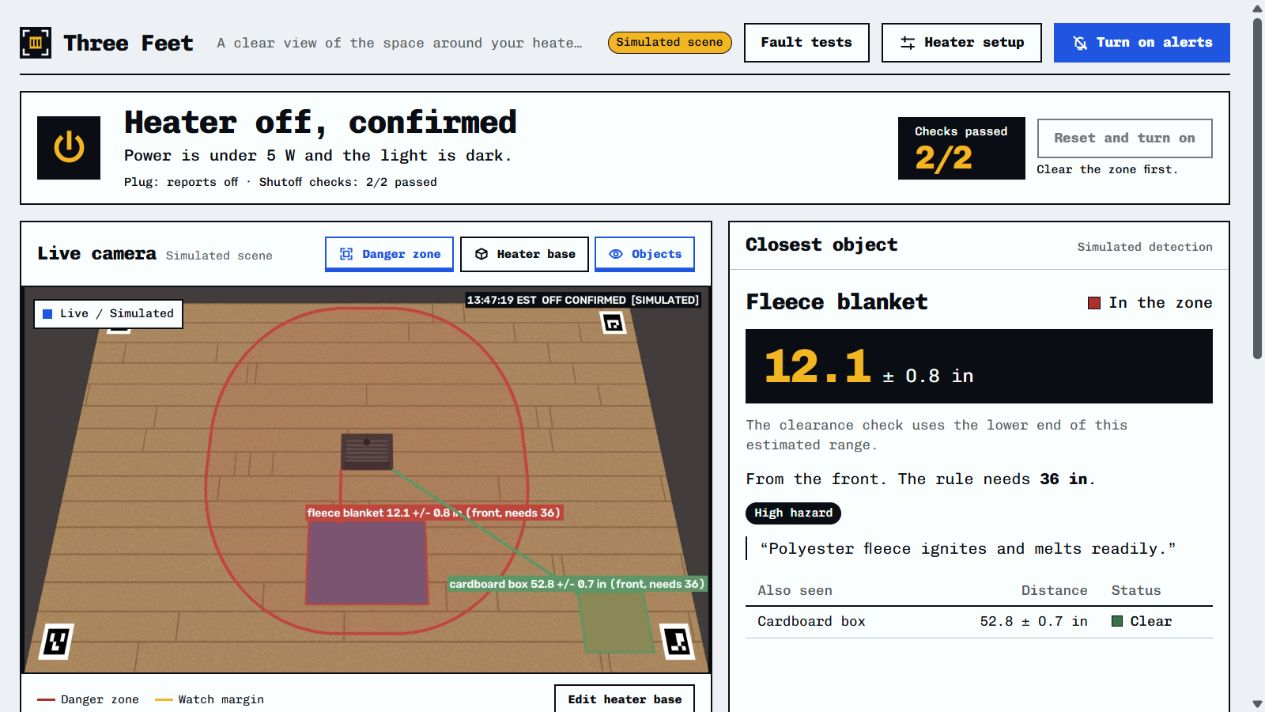
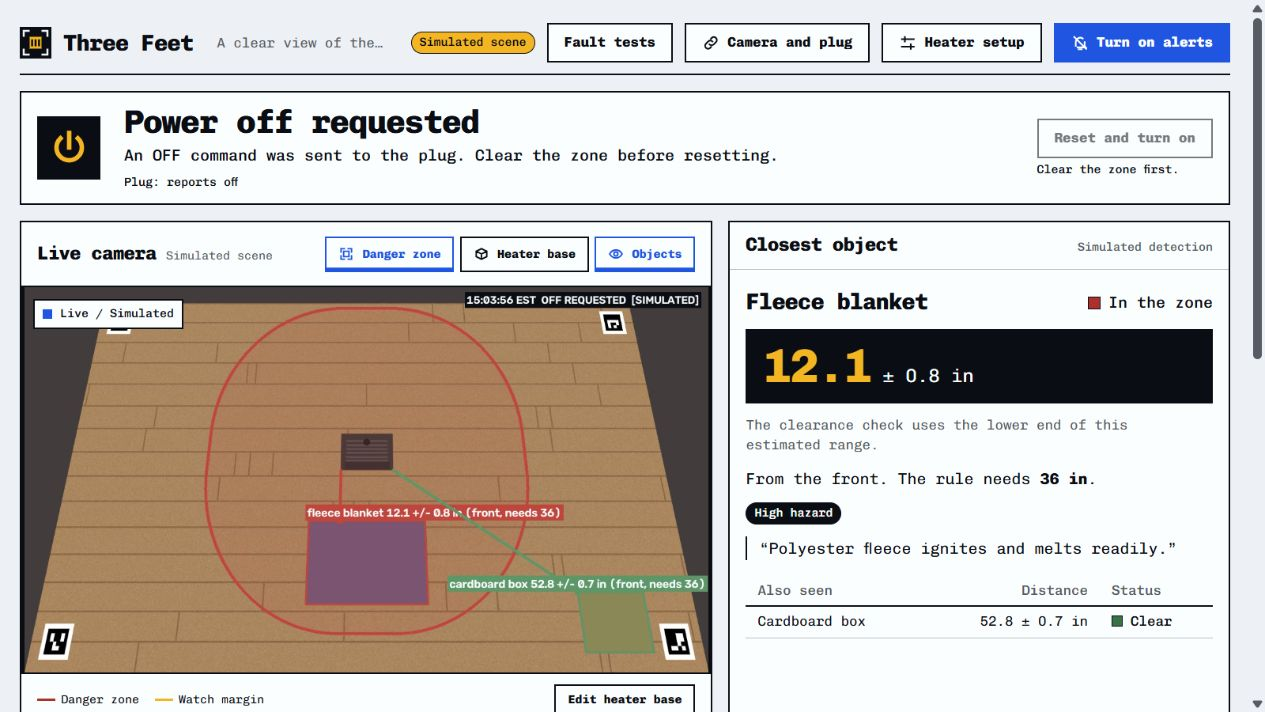
Update docs, evaluation tools, and app wiring

diff --git a/three_feet/evaluation.py b/three_feet/evaluation.py
@@ -12,7 +12,7 @@ from datetime import datetime, timezone
 from pathlib import Path
 
 DISTANCE_FIELDS = ["recorded_at", "setup", "object", "measured_in", "estimated_in", "error_in", "required_in", "notes"]
-SHUTOFF_FIELDS = ["recorded_at", "setup", "command_succeeded", "plug_off", "indicator_off", "latency_s", "notes"]
+SHUTOFF_FIELDS = ["recorded_at", "setup", "command_succeeded", "latency_s", "notes"]
 
 
 def nonnegative(value: str) -> float:
@@ -60,22 +60,20 @@ def report(distances: list[dict], shutoffs: list[dict]) -> str:
                     ("measured_in", "estimated_in", "error_in", "required_in"))
                 errors.append(abs(estimate - actual))
                 coverage += abs(estimate - actual) <= error
-                actual_inside, predicted_inside = actual < required, estimate - error < required
+                actual_inside, predicted_inside = actual < required, estimate < required
                 missed += actual_inside and not predicted_inside
                 false_alarms += predicted_inside and not actual_inside
             lines += [f"Distance trials: **{len(ds)}**. Mean absolute error: **{sum(errors) / len(errors):.2f} in**. "
                       f"Maximum absolute error: **{max(errors):.2f} in**.", "",
                       f"Actual distance within estimated ± range: **{coverage}/{len(ds)}**. "
-                      f"Missed boundary violations: **{missed}**. Conservative false alarms: **{false_alarms}**.", ""]
+                      f"Missed boundary violations: **{missed}**. False alarms: **{false_alarms}**.", ""]
         if ss:
-            confirmed = sum(r["plug_off"] == "yes" and r["indicator_off"] == "yes" for r in ss)
             succeeded = sum(r["command_succeeded"] == "yes" for r in ss)
             latency = [nonnegative(r["latency_s"]) for r in ss if r["latency_s"]]
             lines += [f"Shutdown attempts: **{len(ss)}**. Command acknowledgements: **{succeeded}**. "
-                      f"Failed commands: **{len(ss) - succeeded}**. Independently confirmed "
-                      f"(plug off + light dark): **{confirmed}**. Unconfirmed: **{len(ss) - confirmed}**.", ""]
+                      f"Failed commands: **{len(ss) - succeeded}**.", ""]
             if latency:
-                lines += [f"Recorded confirmation latency ({len(latency)} trials): mean "
+                lines += [f"Recorded command latency ({len(latency)} trials): mean "
                           f"**{sum(latency) / len(latency):.2f} s**, max **{max(latency):.2f} s**.", ""]
     if not distances and not shutoffs:
         lines += ["No trials recorded. Accuracy and shutdown reliability have not been measured.", ""]
@@ -100,8 +98,6 @@ def main() -> None:
                 sub.add_argument(f"--{flag}", type=nonnegative, required=True)
         else:
             sub.add_argument("--command-succeeded", choices=("yes", "no"), required=True)
-            for flag in ("plug-off", "indicator-off"):
-                sub.add_argument(f"--{flag}", choices=("yes", "no", "unknown"), required=True)
             sub.add_argument("--latency-s", type=nonnegative)
     summary = commands.add_parser("report", help="Summarize recorded trials by setup")
     summary.add_argument("--distances", type=Path)
@@ -121,9 +117,8 @@ def main() -> None:
             path = row.pop("csv")
             row.pop("command")
             if args.command == "shutoff":
-                confirmed = args.plug_off == "yes" and args.indicator_off == "yes"
-                if args.latency_s is not None and not confirmed:
-                    parser.error("Confirmation latency requires both plug off and indicator off")
+                if args.latency_s is not None and args.command_succeeded != "yes":
+                    parser.error("Command latency requires a successful command acknowledgement")
             append_trial(path, DISTANCE_FIELDS if args.command == "distance" else SHUTOFF_FIELDS, row)
             print(f"Recorded trial in {path}")
     except (ValueError, OSError, argparse.ArgumentTypeError) as exc:

diff --git a/three_feet/app.py b/three_feet/app.py
@@ -132,7 +132,7 @@ def build_engine(source_spec: str, plug_kind: str, demo: bool,
         world = SimWorld(plug)
         calib = world.calibration()
         engine = Engine(SimSource(world), SimPerception(world), plug, s, calib=calib, rule=rule,
-                        probe=world.indicator_probe(calib), wonder=wonder, meter=meter, mode="sim",
+                        wonder=wonder, meter=meter, mode="sim",
                         demo=demo, source_label="simulated scene")
         engine.sim_world = world  # type: ignore[attr-defined]
         autoplay = Autoplay(world, lambda: engine.sm.state.value, engine.reset,
@@ -142,7 +142,6 @@ def build_engine(source_spec: str, plug_kind: str, demo: bool,
     from .perception.pipeline import MetaPerception
     from .perception.sam import SamClient
     from .perception.spark import SparkClient
-    from .safety.verifier import IndicatorProbe
 
     path = Path(source_spec)
     saved_camera, saved_plug = startup_connections(source_spec, plug_kind, plug_explicit)
@@ -168,14 +167,14 @@ def build_engine(source_spec: str, plug_kind: str, demo: bool,
     if switch is None:
         switch = make_switch(plug_kind, s.plug_name)
     calib = CalibrationFile.load() if CALIBRATION_PATH.exists() else None
-    probe = (IndicatorProbe(calib.indicator_roi, calib.indicator_threshold)
-             if calib and calib.indicator_roi and calib.indicator_threshold is not None else None)
     perception = (MetaPerception(SamClient(client, meter), SparkClient(client, meter), meter,
-                                idle_refresh_s=min(s.perception_idle_refresh_s, s.perception_max_age_s / 2),
-                                max_result_age_s=s.perception_max_age_s)
+                                idle_refresh_s=s.perception_idle_refresh_s,
+                                max_result_age_s=s.perception_max_age_s,
+                                verification_max_age_s=s.perception_verification_max_age_s,
+                                inventory_period_s=s.perception_inventory_refresh_s)
                   if client else NullPerception())
     engine = Engine(source, perception, switch, s, calib=calib, rule=rule,
-                    probe=probe, wonder=wonder, meter=meter, mode="replay" if path.is_dir() else "live",
+                    wonder=wonder, meter=meter, mode="replay" if path.is_dir() else "live",
                     demo=demo, source_label=source_label)
     for note in notes:
         engine.log("setup", note)

diff --git a/tests/test_evaluation.py b/tests/test_evaluation.py
@@ -3,20 +3,20 @@ import csv
 from three_feet.evaluation import DISTANCE_FIELDS, SHUTOFF_FIELDS, append_trial, read_trials, report
 
 
-def test_trial_roundtrip_reports_errors_boundary_misses_and_unconfirmed_shutoffs(tmp_path):
+def test_trial_roundtrip_reports_errors_boundary_misses_and_command_failures(tmp_path):
     distances, shutoffs = tmp_path / "distances.csv", tmp_path / "shutoffs.csv"
     # Synthetic fixtures exercise the report; they are not physical validation results.
-    for measured, estimated, error in [(35, 38, 1), (40, 38, 3)]:
+    for measured, estimated, error in [(35, 38, 1), (40, 35, 3)]:
         append_trial(distances, DISTANCE_FIELDS, dict(setup="synthetic", object="test cloth",
             measured_in=measured, estimated_in=estimated, error_in=error, required_in=36, notes="fixture"))
-    for plug, indicator in [("yes", "yes"), ("yes", "unknown")]:
-        append_trial(shutoffs, SHUTOFF_FIELDS, dict(setup="synthetic", command_succeeded="yes",
-            plug_off=plug, indicator_off=indicator, latency_s=2 if indicator == "yes" else "", notes="fixture"))
+    for succeeded in ("yes", "no"):
+        append_trial(shutoffs, SHUTOFF_FIELDS, dict(setup="synthetic", command_succeeded=succeeded,
+            latency_s=2 if succeeded == "yes" else "", notes="fixture"))
     result = report(read_trials(distances, DISTANCE_FIELDS), read_trials(shutoffs, SHUTOFF_FIELDS))
-    assert "Mean absolute error: **2.50 in**" in result
+    assert "Mean absolute error: **4.00 in**" in result
     assert "Missed boundary violations: **1**" in result
-    assert "Conservative false alarms: **1**" in result
-    assert "(plug off + light dark): **1**. Unconfirmed: **1**" in result
+    assert "False alarms: **1**" in result
+    assert "Command acknowledgements: **1**. Failed commands: **1**" in result
     with distances.open(newline="", encoding="utf-8") as stream:
         assert len(list(csv.DictReader(stream))) == 2
 

diff --git a/tests/test_app.py b/tests/test_app.py
@@ -41,7 +41,7 @@ def wait_for(client, predicate, timeout=5.0):
 
 def test_state_shape_and_config(client):
     s = client.get("/api/state").json()
-    for key in ("state", "banner", "objects", "rule", "power", "signals", "camera", "calibration", "api",
+    for key in ("state", "banner", "objects", "rule", "power", "off_pending", "off_error", "camera", "calibration", "api",
                 "reset_pending", "reset_cancelled"):
         assert key in s
     cfg = client.get("/api/config").json()
@@ -123,8 +123,8 @@ def latch_simulated_plug_off(client):
     engine.switch.settle_s = 0
     engine.switch.turn_off()
     engine.plug.refresh()
-    engine.sm.state = State.OFF_CONFIRMED
-    wait_for(client, lambda s: s["state"] == "OFF_CONFIRMED" and s["can_reset"])
+    engine.sm.state = State.OFF_REQUESTED
+    wait_for(client, lambda s: s["state"] == "OFF_REQUESTED" and s["can_reset"])
     return engine
 
 
@@ -150,9 +150,9 @@ def test_reset_on_failure_returns_error_and_keeps_heater_latched_off(client, mon
     response = client.post("/api/reset")
     assert response.status_code == 502
     assert "detail" in response.json()
-    assert engine.sm.state in (State.VERIFYING, State.OFF_CONFIRMED)
+    assert engine.sm.state is State.OFF_REQUESTED
     assert engine.switch.status().on is False
-    wait_for(client, lambda s: s["state"] == "OFF_CONFIRMED")
+    wait_for(client, lambda s: s["state"] == "OFF_REQUESTED")
 
 
 def test_reset_refuses_missing_calibration_after_shutoff(client):

diff --git a/scripts/record_demo.py b/scripts/record_demo.py
@@ -2,7 +2,7 @@
 
     python scripts/record_demo.py                 # writes web/demo-data/
 
-Runs the real engine (geometry, state machine, plug, verification, incident report) against the simulated scene on a
+Runs the real engine (geometry, state machine, plug, incident report) against the simulated scene on a
 fake clock, so the recording is fast and repeatable. The dashboard replays it in `npm run build:demo`: state messages,
 events, incidents, and the annotated camera frames. Nothing here touches a camera, a plug, or the network.
 """
@@ -67,7 +67,7 @@ class Recorder:
         calib = self.world.calibration()
         self.engine = Engine(
             SimSource(self.world), SimPerception(self.world), plug, Settings(_env_file=None), calib=calib,
-            rule=ClearanceRule(36, 36, 36, 36, "default"), probe=self.world.indicator_probe(calib), mode="sim",
+            rule=ClearanceRule(36, 36, 36, 36, "default"), mode="sim",
             clock=self.clock, events_dir=None)
         self.engine._workers.shutdown()
         self.engine._workers = SyncExecutor()

diff --git a/tests/test_connections.py b/tests/test_connections.py
@@ -225,14 +225,14 @@ def test_new_cync_sign_in_forces_a_fresh_connection(rig):
     assert len(plugs) == 2 and engine.switch is not first and first.closed
 
 
-@pytest.mark.parametrize("state", [State.VERIFYING, State.OFF_UNCONFIRMED])
-def test_plug_cannot_change_while_a_shutoff_is_being_verified(rig, state):
+def test_plug_cannot_change_while_an_off_command_is_pending(rig):
     engine, service, _, _, _, plug = rig
-    engine.sm.state = state
+    engine._off_pending = 1
     with pytest.raises(ConnectionChangeBlocked):
-        service.apply_plug("dryrun")
+        service.apply_plug('dryrun')
     assert engine.switch is plug
     assert service.store.load()[1] is None
+
 
 
 def test_simulated_scene_cannot_be_edited(rig):

diff --git a/README.md b/README.md
@@ -1,12 +1,12 @@
 # Three Feet
 
-An experimental space-heater safety helper for the **Meta Global AI Developer Hackathon**. Three Feet aims to detect objects in a heater's clearance zone, explain the concern, attempt to turn the heater off, and report whether shutdown was independently confirmed.
+An experimental space-heater safety helper for the **Meta Global AI Developer Hackathon**. Three Feet aims to detect objects in a heater's clearance zone, explain the concern, send an OFF request to the plug, and show the command outcome and reported plug state.
 
-![Simulator dashboard showing distance uncertainty and two-check shutdown confirmation](docs/dashboard-simulator.jpg)
+![Simulator dashboard showing distance uncertainty and an OFF request](docs/dashboard-simulator.jpg)
 
 *Synthetic simulator scene; this screenshot is not a physical validation trial.*
 
-**Implemented system:** One fixed Android phone camera, a reviewed floor-plane calibration, Meta SAM 3.1 and Muse Spark perception, a deterministic safety loop, and a GE Cync smart plug. Cync reports relay state; it has **no power meter**. Independent shutoff confirmation requires both the plug reporting off and a calibrated camera observation of the heater's power light going dark.
+**Implemented system:** One fixed Android phone camera, a reviewed floor-plane calibration, Meta SAM 3.1 and Muse Spark perception, a deterministic safety loop, and a GE Cync smart plug. Cync reports relay state; it has **no power meter**. The dashboard displays its reported state separately from OFF command outcomes.
 
 ```mermaid
 flowchart LR
@@ -15,13 +15,12 @@ flowchart LR
   Models --> Geometry
   Geometry --> Safety[Deterministic safety loop]
   Safety --> Plug[Cync plug OFF request]
-  Plug --> Verification[Plug report plus camera power-light check]
-  Verification --> Dashboard[Live dashboard and incident evidence]
+  Plug --> Dashboard[Live dashboard and command outcome]
   Manual[Manual PDF] --> Wonder[Muse Wonder plus human review]
   Wonder --> Safety
 ```
 
-The dashboard shows estimated distances with uncertainty, clearance provenance, shutdown countdowns, separate plug and camera evidence, and incident reports. The simulator exercises the same geometry, safety loop, verification, and UI with synthetic observations. Run it without hardware using the dashboard quickstart below.
+The dashboard shows estimated distances with uncertainty, clearance provenance, shutdown countdowns, plug status, and incident reports. The simulator exercises the same geometry, safety loop, plug requests, and UI with synthetic observations. Run it without hardware using the dashboard quickstart below.
 
 **Validation:** No physical accuracy or reliability results are claimed here. Record trials and generate a report using [VALIDATION.md](./VALIDATION.md). A demo video and physical measurements must be supplied before presenting the project as empirically validated.
 
@@ -34,11 +33,14 @@ The dashboard shows estimated distances with uncertainty, clearance provenance, 
 
 It has unit and end-to-end tests but has **not yet been validated** against real measurements or real shutoffs. This is a research prototype, not a fire-safety device; do not rely on it to prevent fires or replace manufacturer instructions, smoke alarms, or safe heater practices.
 
-### Monitoring and verification behavior
+### Monitoring and power commands
 
-- Confirmation always needs **two checks**, including when the light probe is missing. Without it, shutdown stays unconfirmed, OFF requests are retried, and a person is alerted to check the heater. Configure the probe with `scripts/calibrate_light.py`.
-- Measurement uncertainty is an engineering estimate, not a statistical confidence interval. Decisions use the conservative lower end of the distance range.
-- Model health requires successful segmentation of a recent frame. By default, results expire after 5 seconds and idle scenes refresh every 2 seconds. Slow calls do not refresh the timestamp of their input frames. Budget exhaustion pauses model calls and marks monitoring degraded; local catch-all detection still runs. Reset is refused while model health is degraded.
+- After the countdown, the app sends OFF and shows **Power off requested**. Requests stay latched until a guarded manual reset. Only failed command calls are retried (`OFF_COMMAND_RETRIES`, default 2); the plug state is displayed separately.
+
+- Measurement uncertainty is an engineering estimate, not a statistical confidence interval. The red zone uses the nominal object measurement. Only overlap with the red zone starts the shutoff countdown. A fixed 2-inch outside watch band is amber; uncertainty never expands that band.
+- SAM initializes object masks, then local optical flow tracks their positions between API checks. New scene content, lost tracking, or a camera gap triggers an early SAM check; otherwise SAM checks every 30 seconds (`PERCEPTION_IDLE_REFRESH_S`). Spark inventories the scene at most once per 60 seconds (`PERCEPTION_INVENTORY_REFRESH_S`); per-object hazard judgments are retained with track identities.
+- Camera/local tracking results expire after 5 seconds (`PERCEPTION_MAX_AGE_S`). SAM verification has a separate 45-second deadline (`PERCEPTION_VERIFICATION_MAX_AGE_S`). Unknown scene changes and failed checks mark monitoring degraded until a successful SAM check; local frames cannot renew the SAM deadline. Slow calls retain their input frame's timestamp. Budget exhaustion pauses model calls and marks monitoring degraded; local catch-all detection still runs. Reset is refused while model health is degraded.
+- At six concepts per check and $0.0025 per SAM image, an unchanged scene uses about $1.80/hour for SAM before token-priced calls, versus about $27/hour at the former two-second interval. Movement that local tracking cannot explain increases API use. These are scheduling estimates, not measured physical tracking accuracy or a billing guarantee.
 - `DEFAULT_CLEARANCE_IN` is the active fallback and suggestion floor, not a guarantee of the manufacturer's requirement. Approved user distances remain explicitly labeled as custom, including warnings below the active default. Finding a manual requires human review before its values take effect.
 - Dashboard and report times use `DISPLAY_TIMEZONE` (default `America/New_York`) with timezone labels or UTC offsets.
 - Backend tests isolate settings and saved rules from your local `.env`. Run `python -m pytest`; frontend validation is `npm run build` in `web/`.
@@ -65,7 +67,6 @@ Copy-Item .env.example .env      # then add MODEL_API_KEY and the phone camera U
 | Quick setup: no printing, just measure the heater's base (width, depth in inches) and click its 4 corners | `.\.venv\Scripts\python.exe scripts\calibrate.py --source phone --heater 14 9` |
 | Or print ArUco markers for tighter error bars (writes `data\markers\aruco_markers.pdf`; print at Actual size) | `.\.venv\Scripts\python.exe tools\print_markers.py` |
 | Calibrate with the markers and mark the heater | `.\.venv\Scripts\python.exe scripts\calibrate.py --image data\photos\setup.jpg --layout data\markers_layout.example.json` |
-| Teach it the heater's power light (on, then off) | `.\.venv\Scripts\python.exe scripts\calibrate_light.py --source phone` |
 | Extract the clearance rule from a manual | `.\.venv\Scripts\python.exe scripts\extract_rules.py data\manuals\heater.pdf` |
 | Or find the manual on the web from the heater's name | `.\.venv\Scripts\python.exe scripts\extract_rules.py --find "Lasko 754200"` |
 | Run SAM 3.1 on photos, with distances if calibrated | `.\.venv\Scripts\python.exe scripts\sam_photos.py data\photos --spark` |
@@ -76,15 +77,15 @@ Use your measured dimensions for `--heater`. Automatic setup inspects the full f
 
 ### Smart plug
 
-Three Feet controls a **GE Cync Indoor Plug** (`PLUG_KIND=cync`, `PLUG_NAME=<name in the Cync app>`). The plug has no power meter, so a shutoff is confirmed by the plug's own report that it is off plus the heater's power light going dark on camera. `PLUG_KIND=dryrun` is a simulated plug for the simulator and tests.
+Three Feet controls a **GE Cync Indoor Plug** (`PLUG_KIND=cync`, `PLUG_NAME=<name in the Cync app>`). The plug has no power meter and reports only its relay state. `PLUG_KIND=dryrun` is a simulated plug for the simulator and tests.
 
 To set up the Cync plug:
 1. Install the extra: `.\.venv\Scripts\python.exe -m pip install -e ".[cync]"`.
 2. Close the Cync phone app (Cync allows one connection per account), then log in once: `.\.venv\Scripts\python.exe scripts\cync_login.py`. It asks for the emailed code, saves tokens (never the password) to the git-ignored `data/cync_token.json`, and lists your device names.
 3. With a lamp plugged in, check it: `.\.venv\Scripts\python.exe scripts\plug_test.py --off`.
-4. To restore the test lamp from the CLI: `.\.venv\Scripts\python.exe scripts\plug_test.py --on`. Use `--on` only with a lamp; it energizes the connected device. In the dashboard, **Reset and turn on** restores plug power and resumes monitoring after a shutoff, only with a fresh camera view, valid calibration, available API, reachable plug, and clear zone. Power is never restored automatically when an object leaves. A failed ON request is not retried; the engine requests OFF and runs shutdown verification and OFF retries.
+4. To restore the test lamp from the CLI: `.\.venv\Scripts\python.exe scripts\plug_test.py --on`. Use `--on` only with a lamp; it energizes the connected device. In the dashboard, **Reset and turn on** restores plug power and resumes monitoring after a shutoff, only with a fresh camera view, valid calibration, available API, reachable plug, and clear zone. Power is never restored automatically when an object leaves. A failed ON request is not retried; the engine requests OFF and retries failed OFF commands.
 
-The Cync driver uses the unofficial [pycync](https://github.com/Kinachi249/pycync) library through Cync's cloud. Set up the calibration's power-light check: without a meter it is the only independent confirmation.
+The Cync driver uses the unofficial [pycync](https://github.com/Kinachi249/pycync) library through Cync's cloud.
 
 ### Changing the camera or plug from the dashboard
 
@@ -92,7 +93,7 @@ Click **Camera and plug** in the header instead of editing `.env` and restarting
 
 - **Camera:** enter the stream address (or a webcam number such as `0`), optionally a username and password, then **Test camera** and **Use this camera**. The new camera is opened first and only replaces the old one once a picture arrives, so a wrong address changes nothing.
 - **Plug:** choose a GE Cync plug or the simulated test plug. For Cync you can sign in with your email, password and the emailed code, then pick the plug by name. The password is never stored, only the tokens in `data/cync_token.json`.
-- **Heater on:** if the heater is on (or its state is unknown) the panel warns you and the button reads "…anyway". It never blocks a camera change. A plug change is refused only while a shutoff is being verified, because that proof belongs to the current plug.
+- **Heater on:** if the heater is on (or its state is unknown) the panel warns you and the button reads "…anyway". It never blocks a camera change. A plug change is refused while a power command is pending.
 - **After a camera change** the detections and the empty-zone photo are cleared. Check that the danger zone still sits on the heater; redo **Heater setup** if the view moved.
 - Choices are saved to the git-ignored `data/connections.json` (it holds a camera password if you set one). Plain `python -m three_feet.app` starts live and uses them: with nothing saved it starts with "no camera" (and the plug from `PLUG_KIND` in `.env`, `dryrun` by default) until you add them here. Explicit flags win: `--source <address>` beats a saved camera (only `--source phone`, the default, uses it), and `--plug <kind>` beats a saved plug of a different kind. Otherwise the saved choice is used, then `.env`. The simulated scene (`--source sim`) has nothing to change.
 
@@ -116,7 +117,7 @@ cd web; npm install; npm run build; cd ..
 .\.venv\Scripts\python.exe -m three_feet.app --source data\photos --demo           # replay photos with real API calls
 ```
 
-The simulator renders a synthetic overhead view with real ArUco markers, a heater whose power light follows a simulated plug, and scripted objects. Everything after the frame (calibration, geometry, safety state machine, verification, incident log, and UI) is the real code, and the UI labels the scene **SIMULATED**.
+The simulator renders a synthetic overhead view with real ArUco markers, a heater whose power light follows a simulated plug, and scripted objects. Everything after the frame (calibration, geometry, safety state machine, plug requests, incident log, and UI) is the real code, and the UI labels the scene **SIMULATED**.
 
 For frontend development, keep the server running and use `npm run dev` in `web/` (http://localhost:5173). Vite proxies `/api`, `/ws`, and `/stream.mjpg` to port 8000.
 
@@ -143,7 +144,7 @@ Objects such as blankets, curtains, and boxes can end up too close to a space he
 
 > I want to build Three Feet, a safety helper for space heaters. Space heaters cause 29% of US home heating fires but 77% of the deaths, often because a blanket, curtain or box ends up too close.
 >
-> Two cheap cameras watch the area around the heater. SAM 3.1 outlines the heater and nearby objects so the system can measure, in inches, how close each one is. Muse Spark judges what's flammable, and Muse Wonder reads the heater's manual for its required clearances and keeps watch through the evening. If something stays too close, an ESP32 turns the heater off with its own remote and confirms it's off.
+> Two cheap cameras watch the area around the heater. SAM 3.1 outlines the heater and nearby objects so the system can measure, in inches, how close each one is. Muse Spark judges what's flammable, and Muse Wonder reads the heater's manual for its required clearances and keeps watch through the evening. If something stays too close, an ESP32 turns the heater off with its own remote and logs the OFF request.
 >
 > I'll test it with a tape measure and real shutoffs.
 
@@ -151,14 +152,14 @@ The 29% and 77% figures are from NFPA's 2019–2023 estimate and include **heati
 
 ## Proposed prototype
 
-The core demonstration is **perceive → reason → act → verify**:
+The core demonstration is **perceive → reason → act**:
 
 1. Observe one fixed heater and its surroundings with a calibrated camera setup. Use SAM 3.1 to segment the heater and nearby objects.
 2. Estimate an object's distance or determine whether it enters a defined clearance zone. Segmentation alone does not measure real-world distance; camera calibration, geometry, and empirical testing are required. Two cameras are a proposed approach, not yet a proven solution.
 3. Use Muse Spark to help describe objects and explain potential hazards. Treat unknown objects conservatively; a model's material or flammability guess must not be the sole reason to dismiss a hazard.
 4. Use Muse Wonder to extract a clearance requirement from the heater's manual, with the source visible and a person reviewing the result. Use a reviewed rule for the demonstration rather than silently trusting uncertain extraction.
-5. When an object remains in the zone, issue a warning and attempt shutdown through an ESP32 and the heater's supported remote. Independently check the heater's state; distinguish an off command from a confirmed shutdown.
-6. Display uncertainty and failures, including loss of camera, API, or shutdown verification. Do not present missing observations as proof of safety.
+5. When an object remains in the zone, issue a warning and send an OFF request through the smart plug. Log whether the command returned successfully or failed.
+6. Display uncertainty and failures, including loss of camera, API, or plug connectivity. Do not present missing observations as proof of safety.
 
 Start with one heater, a controlled camera position, and one complete working loop. Add complexity only after the basic loop is demonstrable. Use an unpowered heater or non-heating stand-in for close-object staging and demonstrate remote operation separately under supervision.
 
@@ -166,12 +167,12 @@ Start with one heater, a controlled camera position, and one complete working lo
 
 - Compare distance estimates against tape measurements at multiple distances, especially around the clearance boundary; report errors and the conditions tested.
 - Test multiple object types, placements, lighting conditions, and occlusions. Record missed detections and false alarms, including uncertainty cases.
-- Count attempted, successful, failed, and independently confirmed shutoffs. Exercise camera and API disconnects and failed confirmation.
+- Count attempted, acknowledged, and failed OFF commands. Exercise camera and API disconnects and command failures.
 - Report the number of trials, setup, and limitations. Do not imply that a small demonstration establishes real-world safety or reliability.
 
 ### Demo outline
 
-Show the physical scene alongside the interface. Move a staged object into the marked zone; show the detected object, estimate, rule and source, warning, shutdown attempt, and independent confirmation. Include an uncertainty or failure case and finish with measured results and a concise look at the code created during the event.
+Show the physical scene alongside the interface. Move a staged object into the marked zone; show the detected object, estimate, rule and source, warning, OFF request, and reported plug status. Include an uncertainty or failure case and finish with measured results and a concise look at the code created during the event.
 
 ## Hackathon overview
 
@@ -197,7 +198,7 @@ Dates may change. Check the [official event page](https://dev.meta.ai/events/glo
 - [ ] Use only code, data, and assets the team has rights to; comply with legal, ethical, and platform policies. Review the official rules and eligibility requirements.
 - [ ] Verify the submission and all links before **November 4 at 9:00 p.m. Eastern**.
 
-The guide warns that failure to clearly identify original hackathon contributions can result in disqualification. It lists basic RAG applications and simple image analyzers among generic examples to avoid. Three Feet's intended distinction is its integrated physical decision and verification loop, supported by measured results.
+The guide warns that failure to clearly identify original hackathon contributions can result in disqualification. It lists basic RAG applications and simple image analyzers among generic examples to avoid. Three Feet's intended distinction is its integrated physical perception and control loop, supported by measured results.
 
 ## Judging rubric
 

diff --git a/VALIDATION.md b/VALIDATION.md
@@ -14,13 +14,13 @@ python -m three_feet.evaluation distance --csv runs/validation/distances.csv --s
 
 ## Record shutdown attempts
 
-Log command failure separately from physical evidence. `--plug-off yes` means a plug report, not a power-meter measurement. Count independent confirmation only when the plug reports off **and** the camera sees the calibrated power light go dark. Use `unknown` for missing or unreadable evidence. Supply latency only for independently confirmed shutdowns.
+Record whether the OFF command returned successfully or raised an error. Optional latency measures command acknowledgement time. The app records command outcomes and displays the plug's reported state separately.
 
 ```powershell
-python -m three_feet.evaluation shutoff --csv runs/validation/shutoffs.csv --setup physical-fixed-phone --command-succeeded yes --plug-off yes --indicator-off unknown --notes "Light probe not configured; not independently confirmed"
+python -m three_feet.evaluation shutoff --csv runs/validation/shutoffs.csv --setup physical-fixed-phone --command-succeeded yes --latency-s 1.2 --notes "OFF command returned successfully"
 ```
 
-Exercise camera loss, API failure, budget pause, and failed verification. Demonstrate fault injection in the simulator separately from the physical setup.
+Exercise camera loss, API failure, budget pause, and command failure. Demonstrate fault injection in the simulator separately from the physical setup.
 
 ## Generate results
 
@@ -28,14 +28,14 @@ Exercise camera loss, API failure, budget pause, and failed verification. Demons
 python -m three_feet.evaluation report --distances runs/validation/distances.csv --shutoffs runs/validation/shutoffs.csv --output RESULTS.md
 ```
 
-The report groups results by setup and includes trial counts, mean/max absolute error, coverage of the engineering error range, boundary misses and conservative false alarms, command failures, independent confirmations, and recorded confirmation latency. Keep CSV notes with the report so the conditions are reviewable. A report without trials explicitly says validation is missing.
+The report groups results by setup and includes trial counts, mean/max absolute error, coverage of the engineering error range, boundary misses and false alarms, command failures, and command latency. Keep CSV notes with the report so the conditions are reviewable. A report without trials explicitly says validation is missing.
 
 ## Three-minute recording
 
 1. Explain the problem and show the fixed camera, heater footprint, and plug (20 seconds).
 2. Show calibration, the reviewed clearance source, and how the three Meta models contribute (30 seconds).
-3. Show object detection, distance ± uncertainty, countdown, OFF request, and both verification checks (70 seconds).
-4. Show one failure case and the resulting unknown or unconfirmed state (30 seconds).
+3. Show object detection, distance ± uncertainty, countdown, OFF request, and plug status (70 seconds).
+4. Show one failure case and the resulting unknown state or command error (30 seconds).
 5. Show measured results, limitations, and the code built during the event (30 seconds).
 
-Avoid claiming physical accuracy from simulator tests or independent shutdown confirmation from a relay report alone. Add the finished video link and actual results to the README before submission.
+Avoid claiming physical accuracy from simulator tests. Add the finished video link and actual results to the README before submission.
